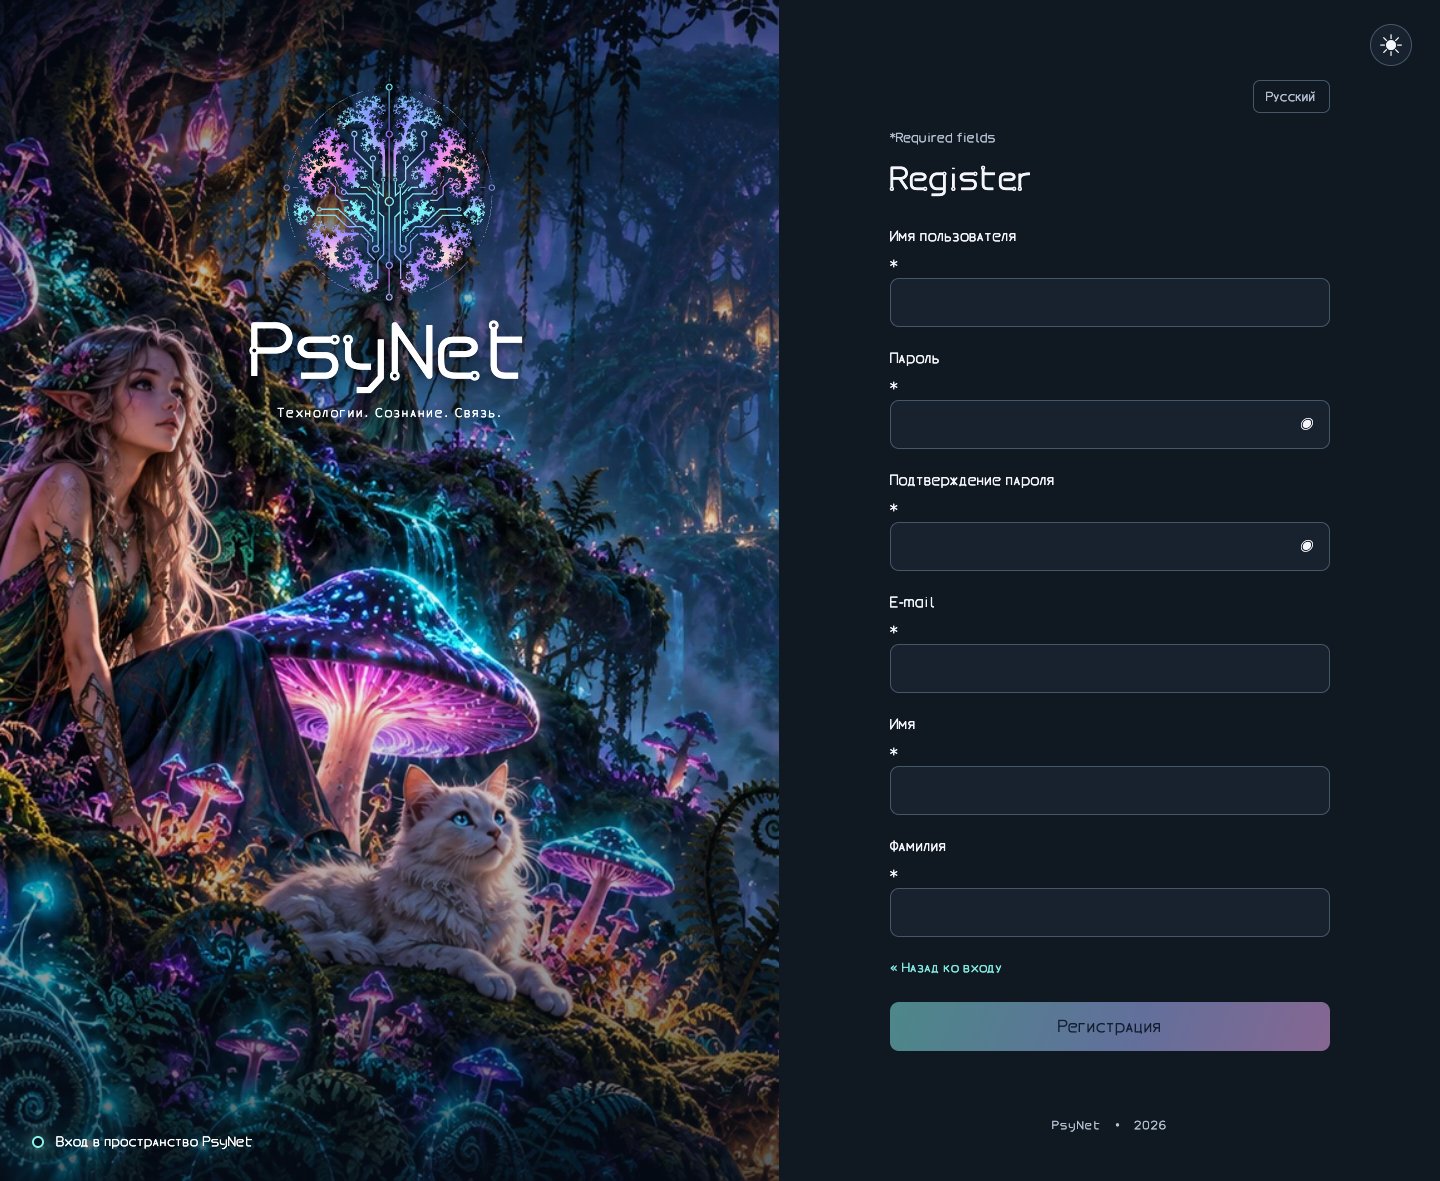
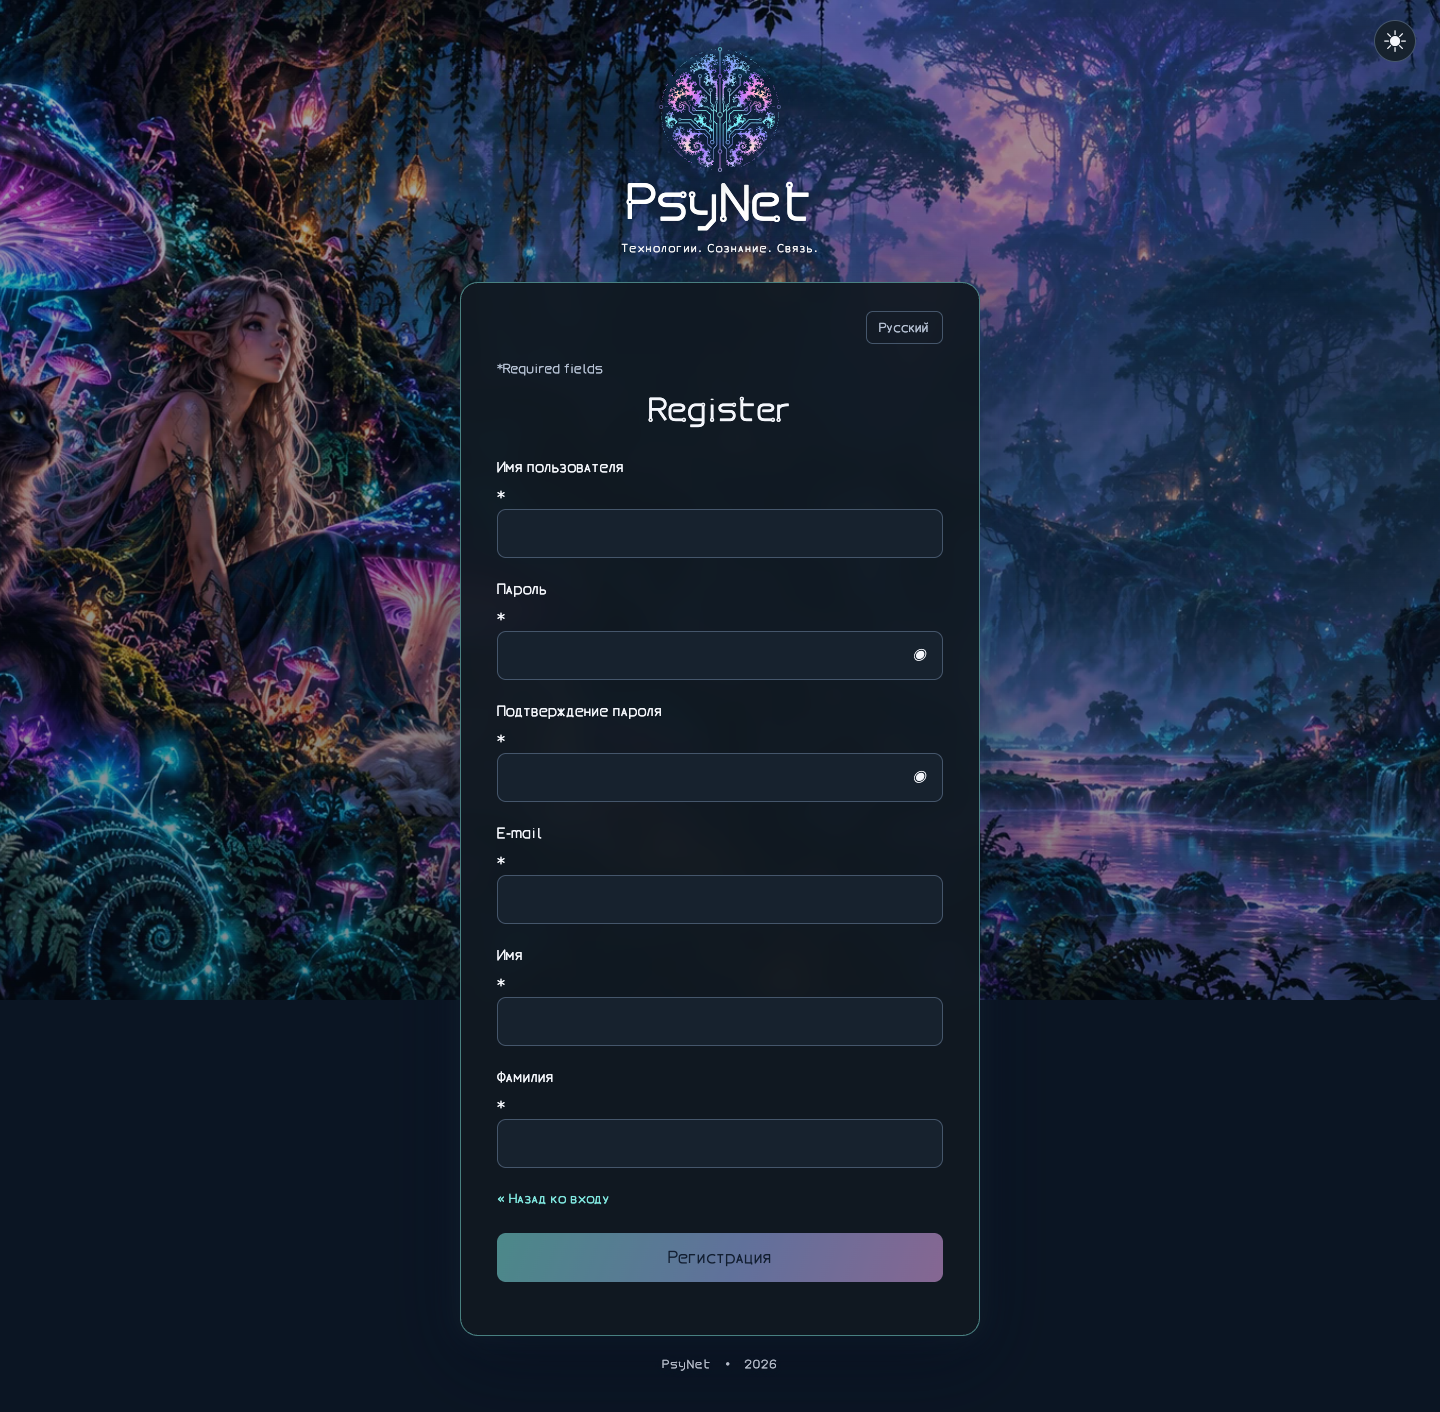
Center login card and brand over full-screen forest

diff --git a/src/login/theme.css b/src/login/theme.css
@@ -1,3 +1,15 @@
 @font-face{font-family:PsySans;src:url('./assets/PsyNet-Sans.woff2') format('woff2');font-display:swap}@font-face{font-family:PsyCircuit;src:url('./assets/PsyNet-Circuit.woff2') format('woff2');font-display:swap}
-*{box-sizing:border-box}body{margin:0;font-family:PsySans,system-ui,sans-serif}.psy-shell{--surface:#101821;--field:#17222e;--text:#f4f6fb;--muted:#b4c0d2;--line:#45566b;--accent:#80e7df;min-height:100svh;display:grid;grid-template-columns:minmax(0,1.18fr) minmax(420px,1fr);background:var(--surface);color:var(--text)}.psy-shell[data-appearance=light]{--surface:#f6f5fa;--field:#fff;--text:#202739;--muted:#566178;--line:#a1adc0;--accent:#365ec7}.psy-world{position:relative;min-height:100svh;background:linear-gradient(180deg,rgba(5,15,34,.5),transparent 55%,rgba(6,14,28,.7)),url('./assets/forest.webp') 27% center/cover;overflow:hidden;color:white}.psy-brand{position:absolute;top:6%;left:50%;transform:translateX(-50%);display:flex;align-items:center;flex-direction:column;width:90%;text-shadow:0 2px 16px #071022}.psy-brand img{width:clamp(130px,16vw,230px);filter:drop-shadow(0 5px 18px #061326);height:auto}.psy-wordmark{font-family:PsyCircuit,PsySans;font-size:clamp(45px,5vw,72px);line-height:1.4}.psy-brand p{font-size:12px;letter-spacing:.13em;margin:2px;text-align:center}.psy-caption{position:absolute;bottom:30px;left:32px;display:flex;align-items:center;gap:12px;font-size:13px}.psy-contact{width:12px;height:12px;border:2px solid #85f4ec;border-radius:50%;box-shadow:0 0 16px #7ceddf}.psy-access{position:relative;display:flex;flex-direction:column;justify-content:center;padding:80px clamp(24px,5vw,80px) 48px;min-width:0}.psy-toggle{position:absolute;top:24px;right:28px;border:1px solid var(--line);background:var(--field);color:var(--text);border-radius:50%;width:42px;height:42px;font:25px system-ui;cursor:pointer}.psy-form{width:100%;max-width:440px;margin:auto}#kc-header{display:none}#kc-page-title{font-family:PsyCircuit,PsySans,sans-serif;font-size:30px;font-weight:400;line-height:1.4;margin:12px 0 26px;overflow-wrap:anywhere}a{color:var(--accent);text-decoration:none}a:hover{text-decoration:underline}label{display:block;font-size:14px;margin:0 0 9px}input:not([type=checkbox]):not([type=radio]):not([type=submit]),select,textarea{width:100%;min-height:49px;border:1px solid var(--line);border-radius:9px;background:var(--field);color:var(--text);padding:12px 14px;font:16px PsySans,system-ui}input:focus-visible,select:focus-visible,button:focus-visible,a:focus-visible{outline:3px solid var(--accent);outline-offset:3px}input[aria-invalid=true]{border-color:#e5758c}input[type=checkbox],input[type=radio]{accent-color:var(--accent);width:17px;height:17px;vertical-align:middle}input[type=submit],button[type=submit]{border:0;border-radius:9px;min-height:49px;padding:12px 18px;background:linear-gradient(110deg,#7de3de,#a4b8ff 55%,#e7a6ef);color:#14223e;font:16px PsySans;cursor:pointer;width:100%}button:disabled,input:disabled{opacity:.55;cursor:default}.form-group{margin-bottom:21px}.checkbox label{display:flex;align-items:center;gap:7px}.kcFormOptionsWrapperClass,#kc-form-options{font-size:13px}#kc-form-options{display:flex;align-items:center;justify-content:space-between;gap:12px;margin:5px 0 24px}#kc-form-options .checkbox label{margin:0}#kc-form-buttons{margin-top:25px}#kc-info{margin-top:28px;padding-top:24px;border-top:1px solid var(--line);text-align:center;font-size:14px;line-height:1.8}#kc-registration span{display:flex;gap:8px;justify-content:center;flex-wrap:wrap}.alert{padding:14px;border:1px solid var(--line);border-radius:9px;margin-bottom:24px;line-height:1.5}.alert-error{border-color:#e5758c}.alert-success{border-color:#4cab93}#input-error,#input-error-username,#input-error-password,[id^=input-error-]{color:#e5758c;display:block;font-size:13px;margin-top:8px}.psy-shell[data-appearance=light] [id^=input-error]{color:#aa2443}.pf-c-input-group{position:relative;display:flex}.pf-c-input-group input{padding-right:50px!important}.pf-c-input-group button{position:absolute;right:1px;top:1px;width:46px;height:47px;border:0;background:none;color:var(--text);cursor:pointer}.fa-eye:before{content:'◉'}.fa-eye-slash:before{content:'◌'}#kc-locale{display:flex;justify-content:flex-end;font-size:12px;margin-bottom:16px}#kc-locale-dropdown{position:relative}#kc-locale-dropdown button{font:inherit;color:var(--muted);background:transparent;border:1px solid var(--line);border-radius:7px;padding:7px 12px;cursor:pointer}#kc-locale-dropdown ul{display:none;position:absolute;right:0;z-index:5;min-width:160px;max-height:260px;overflow:auto;margin:4px 0;padding:8px;list-style:none;border:1px solid var(--line);background:var(--surface);border-radius:8px}#kc-locale-dropdown [aria-expanded=true]+ul,#kc-locale-dropdown:focus-within ul{display:block}#kc-locale-dropdown a{display:block;padding:8px}#kc-social-providers ul{list-style:none;padding:0;display:grid;gap:10px}#kc-social-providers a{display:block;text-align:center;border:1px solid var(--line);padding:13px;border-radius:9px}#kc-social-providers h2{font-size:14px;font-weight:400;color:var(--muted);text-align:center}.required,.subtitle{color:var(--muted);font-size:12px}#kc-form-wrapper p,#kc-content p{line-height:1.7;font-size:14px;color:var(--muted)}.psy-access footer{text-align:center;color:var(--muted);font:11px PsySans;margin-top:45px;letter-spacing:.1em}.psy-access footer span{padding:0 8px}ul{padding-left:22px}hr{border:0;border-top:1px solid var(--line);margin:24px 0}#kc-form-login-otp .pf-c-tile{padding:12px;border:1px solid var(--line);border-radius:9px;margin:8px 0}.pf-c-tile input{width:auto}#kc-back{margin:20px 0}#kc-attempted-username{font-size:16px}#kc-reset-login{margin-left:10px}
-@media(min-width:1600px){.psy-access{padding-left:12%;padding-right:12%}}@media(max-width:820px){.psy-shell{grid-template-columns:1fr}.psy-world{min-height:280px;height:32svh;background-position:25% 44%}.psy-brand{top:12px}.psy-brand img{width:100px}.psy-wordmark{font-size:34px}.psy-brand p{font-size:10px}.psy-caption{display:none}.psy-access{padding:70px 24px 24px;min-height:68svh}.psy-form{max-width:460px}#kc-page-title{font-size:27px}.psy-toggle{top:16px;right:20px}}@media(prefers-reduced-motion:reduce){*{scroll-behavior:auto}}
+*{box-sizing:border-box}body{margin:0;font-family:PsySans,system-ui,sans-serif}/* Full-screen forest, with the brand above a centered form card. */
+.psy-shell{--surface:rgba(16,24,33,.94);--field:#17222e;--text:#f4f6fb;--muted:#b4c0d2;--line:#45566b;--accent:#80e7df;--frame:rgba(128,231,223,.5);position:relative;isolation:isolate;min-height:100svh;display:flex;flex-direction:column;align-items:center;padding:40px 24px;color:var(--text);background:#0b1523}
+.psy-shell::before{content:"";position:fixed;inset:0;z-index:-1;background:linear-gradient(180deg,rgba(5,15,34,.35),rgba(6,14,28,.5)),url('./assets/forest.webp') center/cover no-repeat;pointer-events:none}
+.psy-shell[data-appearance=light]{--surface:rgba(246,245,250,.96);--field:#fff;--text:#202739;--muted:#566178;--line:#a1adc0;--accent:#365ec7;--frame:rgba(205,225,255,.85)}
+.psy-access{width:100%;max-width:520px;min-width:0;margin-block:auto}
+.psy-brand{display:flex;align-items:center;flex-direction:column;margin-bottom:24px;color:#fff;text-shadow:0 2px 16px #071022;text-align:center}
+.psy-brand img{width:132px;height:auto;filter:drop-shadow(0 5px 18px #061326)}
+.psy-wordmark{font-family:PsyCircuit,PsySans;font-size:48px;line-height:1.3}
+.psy-brand p{font-size:11px;letter-spacing:.1em;margin:6px 0 0;line-height:1.6}
+.psy-toggle{position:absolute;top:20px;right:24px;border:1px solid var(--line);background:var(--field);color:var(--text);border-radius:50%;width:42px;height:42px;font:25px system-ui;cursor:pointer;z-index:2}
+.psy-form{width:100%;padding:28px 36px 32px;background:var(--surface);border:1px solid var(--frame);border-radius:18px;box-shadow:0 20px 70px #030a1c80,0 0 28px #80e7df14;backdrop-filter:blur(12px)}
+#kc-header{display:none}#kc-page-title{font-family:PsyCircuit,PsySans,sans-serif;font-size:30px;font-weight:400;line-height:1.4;margin:12px 0 26px;text-align:center;overflow-wrap:anywhere}a{color:var(--accent);text-decoration:none}a:hover{text-decoration:underline}label{display:block;font-size:14px;margin:0 0 9px}input:not([type=checkbox]):not([type=radio]):not([type=submit]),select,textarea{width:100%;min-height:49px;border:1px solid var(--line);border-radius:9px;background:var(--field);color:var(--text);padding:12px 14px;font:16px PsySans,system-ui}input:focus-visible,select:focus-visible,button:focus-visible,a:focus-visible{outline:3px solid var(--accent);outline-offset:3px}input[aria-invalid=true]{border-color:#e5758c}input[type=checkbox],input[type=radio]{accent-color:var(--accent);width:17px;height:17px;vertical-align:middle}input[type=submit],button[type=submit]{border:0;border-radius:9px;min-height:49px;padding:12px 18px;background:linear-gradient(110deg,#7de3de,#a4b8ff 55%,#e7a6ef);color:#14223e;font:16px PsySans;cursor:pointer;width:100%}button:disabled,input:disabled{opacity:.55;cursor:default}.form-group{margin-bottom:21px}.checkbox label{display:flex;align-items:center;gap:7px}.kcFormOptionsWrapperClass,#kc-form-options{font-size:13px}#kc-form-options{display:flex;align-items:center;justify-content:space-between;gap:12px;margin:5px 0 24px}#kc-form-options .checkbox label{margin:0}#kc-form-buttons{margin-top:25px}#kc-info{margin-top:28px;padding-top:24px;border-top:1px solid var(--line);text-align:center;font-size:14px;line-height:1.8}#kc-registration span{display:flex;gap:8px;justify-content:center;flex-wrap:wrap}.alert{padding:14px;border:1px solid var(--line);border-radius:9px;margin-bottom:24px;line-height:1.5}.alert-error{border-color:#e5758c}.alert-success{border-color:#4cab93}#input-error,#input-error-username,#input-error-password,[id^=input-error-]{color:#e5758c;display:block;font-size:13px;margin-top:8px}.psy-shell[data-appearance=light] [id^=input-error]{color:#aa2443}.pf-c-input-group{position:relative;display:flex}.pf-c-input-group input{padding-right:50px!important}.pf-c-input-group button{position:absolute;right:1px;top:1px;width:46px;height:47px;border:0;background:none;color:var(--text);cursor:pointer}.fa-eye:before{content:'◉'}.fa-eye-slash:before{content:'◌'}#kc-locale{display:flex;justify-content:flex-end;font-size:12px;margin-bottom:16px}#kc-locale-dropdown{position:relative}#kc-locale-dropdown button{font:inherit;color:var(--muted);background:transparent;border:1px solid var(--line);border-radius:7px;padding:7px 12px;cursor:pointer}#kc-locale-dropdown ul{display:none;position:absolute;right:0;z-index:5;min-width:160px;max-height:260px;overflow:auto;margin:4px 0;padding:8px;list-style:none;border:1px solid var(--line);background:var(--surface);border-radius:8px}#kc-locale-dropdown [aria-expanded=true]+ul,#kc-locale-dropdown:focus-within ul{display:block}#kc-locale-dropdown a{display:block;padding:8px}#kc-social-providers ul{list-style:none;padding:0;display:grid;gap:10px}#kc-social-providers a{display:block;text-align:center;border:1px solid var(--line);padding:13px;border-radius:9px}#kc-social-providers h2{font-size:14px;font-weight:400;color:var(--muted);text-align:center}.required,.subtitle{color:var(--muted);font-size:12px}#kc-form-wrapper p,#kc-content p{line-height:1.7;font-size:14px;color:var(--muted)}.psy-access footer{text-align:center;color:#e0e7f3;font:11px PsyCircuit,PsySans;margin-top:20px;letter-spacing:.1em;text-shadow:0 2px 8px #071022}.psy-access footer span{padding:0 8px}ul{padding-left:22px}hr{border:0;border-top:1px solid var(--line);margin:24px 0}#kc-form-login-otp .pf-c-tile{padding:12px;border:1px solid var(--line);border-radius:9px;margin:8px 0}.pf-c-tile input{width:auto}#kc-back{margin:20px 0}#kc-attempted-username{font-size:16px}#kc-reset-login{margin-left:10px}
+@media(max-width:600px){.psy-shell{padding:68px 16px 24px}.psy-brand{margin-bottom:20px}.psy-brand img{width:100px}.psy-wordmark{font-size:38px}.psy-brand p{font-size:10px}.psy-form{padding:22px 22px 26px;border-radius:14px}#kc-page-title{font-size:26px}.psy-toggle{top:16px;right:16px}#kc-form-options{flex-wrap:wrap}}
+@media(prefers-reduced-motion:reduce){*{scroll-behavior:auto}}

diff --git a/src/login/Template.tsx b/src/login/Template.tsx
@@ -8,10 +8,10 @@ export default function Template(props:TemplateProps<KcContext,I18n>) {
  const key="psynet-appearance";
  const [mode,setMode]=useState<"light"|"dark">(()=>{try {const saved=localStorage.getItem(key);if(saved==="light"||saved==="dark")return saved;}catch{} return props.kcContext.themeName.endsWith("light")?"light":"dark";});
  const lang=props.i18n.currentLanguage.languageTag;
- const copy=lang.startsWith("ru")?{tag:"Технологии. Сознание. Связь.",caption:"Вход в пространство PsyNet",toggle:"Переключить светлую и тёмную тему"}:lang.startsWith("el")?{tag:"Τεχνολογία. Συνείδηση. Σύνδεση.",caption:"Είσοδος στον κόσμο PsyNet",toggle:"Αλλαγή φωτεινού και σκοτεινού θέματος"}:{tag:"Technology. Consciousness. Connection.",caption:"Your gateway to PsyNet",toggle:"Switch light and dark theme"};
+ const copy=lang.startsWith("ru")?{tag:"Технологии. Сознание. Связь.",toggle:"Переключить светлую и тёмную тему"}:lang.startsWith("el")?{tag:"Τεχνολογία. Συνείδηση. Σύνδεση.",toggle:"Αλλαγή φωτεινού και σκοτεινού θέματος"}:{tag:"Technology. Consciousness. Connection.",toggle:"Switch light and dark theme"};
  function toggle(){const next=mode==="dark"?"light":"dark";setMode(next);try{localStorage.setItem(key,next);}catch{}}
  return <main className="psy-shell" data-appearance={mode}>
-  <section className="psy-world" aria-label="PsyNet"><div className="psy-brand"><img src={emblem} alt=""/><span className="psy-wordmark">PsyNet</span><p>{copy.tag}</p></div><div className="psy-caption"><span className="psy-contact"/>{copy.caption}</div></section>
-  <section className="psy-access"><button className="psy-toggle" type="button" onClick={toggle} aria-label={copy.toggle} title={copy.toggle}>{mode==="dark"?"☀":"☾"}</button><div className="psy-form"><OriginalTemplate {...props}/></div><footer>PsyNet <span>•</span> {new Date().getFullYear()}</footer></section>
+  <button className="psy-toggle" type="button" onClick={toggle} aria-label={copy.toggle} title={copy.toggle}>{mode==="dark"?"☀":"☾"}</button>
+  <section className="psy-access"><header className="psy-brand" aria-label="PsyNet"><img src={emblem} alt=""/><span className="psy-wordmark">PsyNet</span><p>{copy.tag}</p></header><div className="psy-form"><OriginalTemplate {...props}/></div><footer>PsyNet <span>•</span> {new Date().getFullYear()}</footer></section>
  </main>;
 }

diff --git a/README.md b/README.md
@@ -1,6 +1,6 @@
 # PsyNet · Keycloak theme suite
 
-Светлая и тёмная темы **Keycloak 26.x** для login, account, admin и email. Login построен на Keycloakify 11.16.1. Фрактальный логотип и дорожки платы, шрифты PsyNet Sans / Circuit с латиницей, кириллицей и греческим, психоделический лес с волшебными грибами, котами и эльфами. Цвета фона и логотипа сохраняются в обеих схемах; переключатель меняет поверхность формы и текст.
+Светлая и тёмная темы **Keycloak 26.x** для login, account, admin и email. Login построен на Keycloakify 11.16.1. Фрактальный логотип и дорожки платы, шрифты PsyNet Sans / Circuit с латиницей, кириллицей и греческим, психоделический лес с волшебными грибами, котами и эльфами. Цвета фона и логотипа сохраняются в обеих схемах; переключатель меняет поверхность формы и текст. На странице входа лесной фон занимает весь экран, форма расположена в рамке по центру, логотип и надпись PsyNet — над ней.
 
 ![Тёмная тема](previews/dark.png)
 
